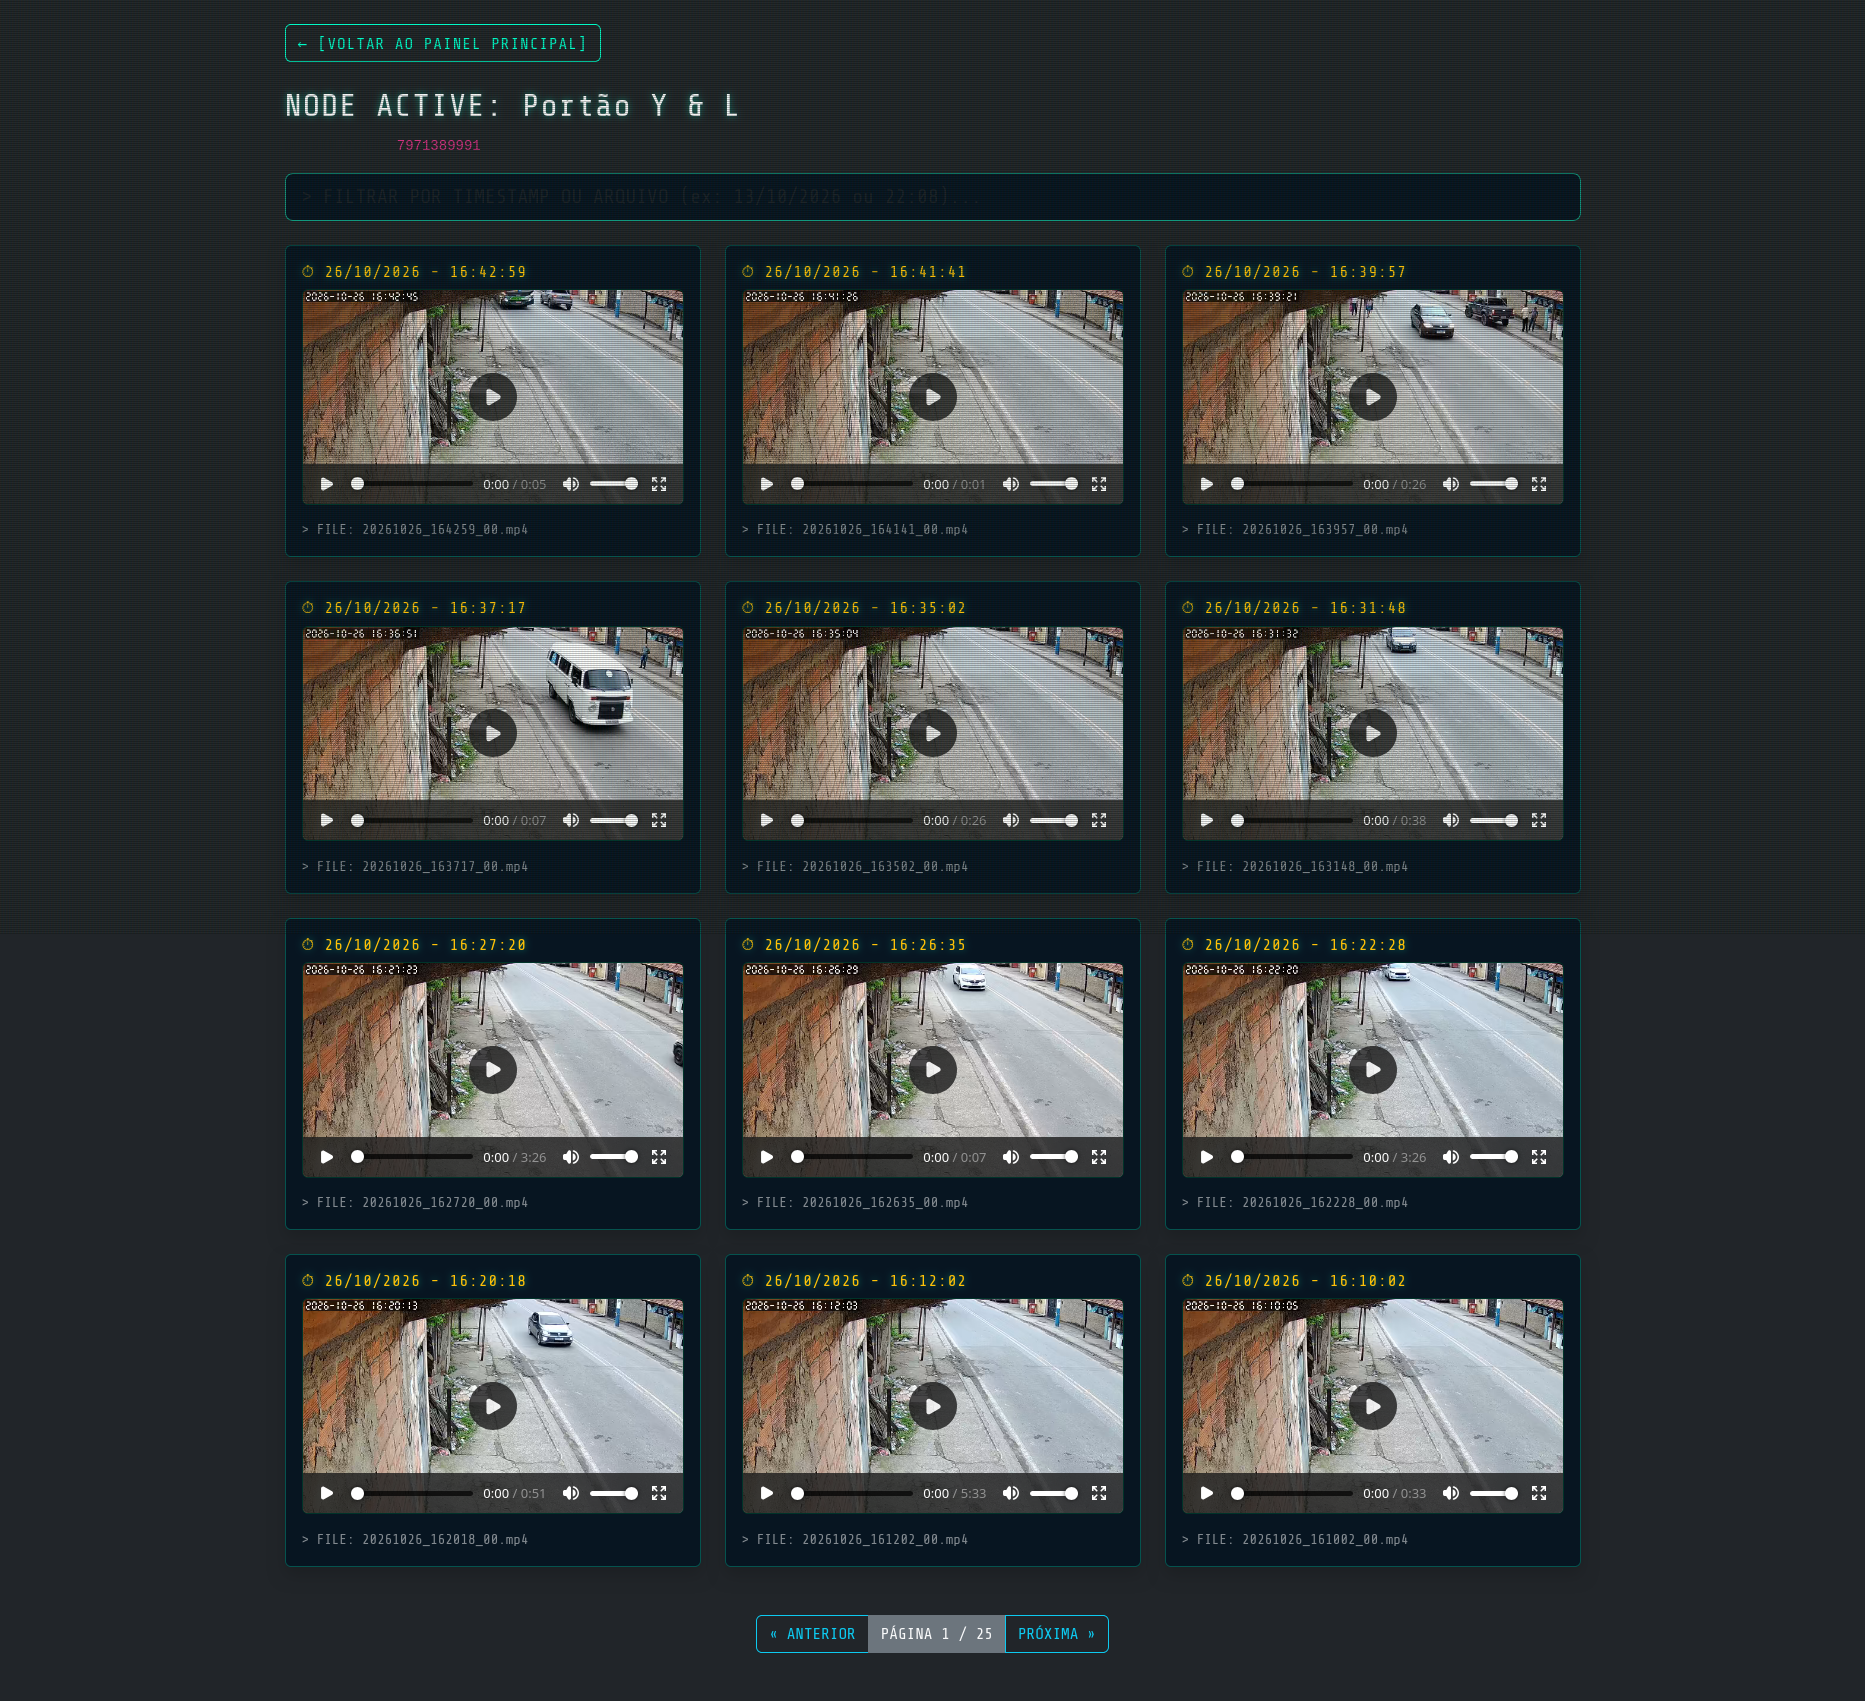
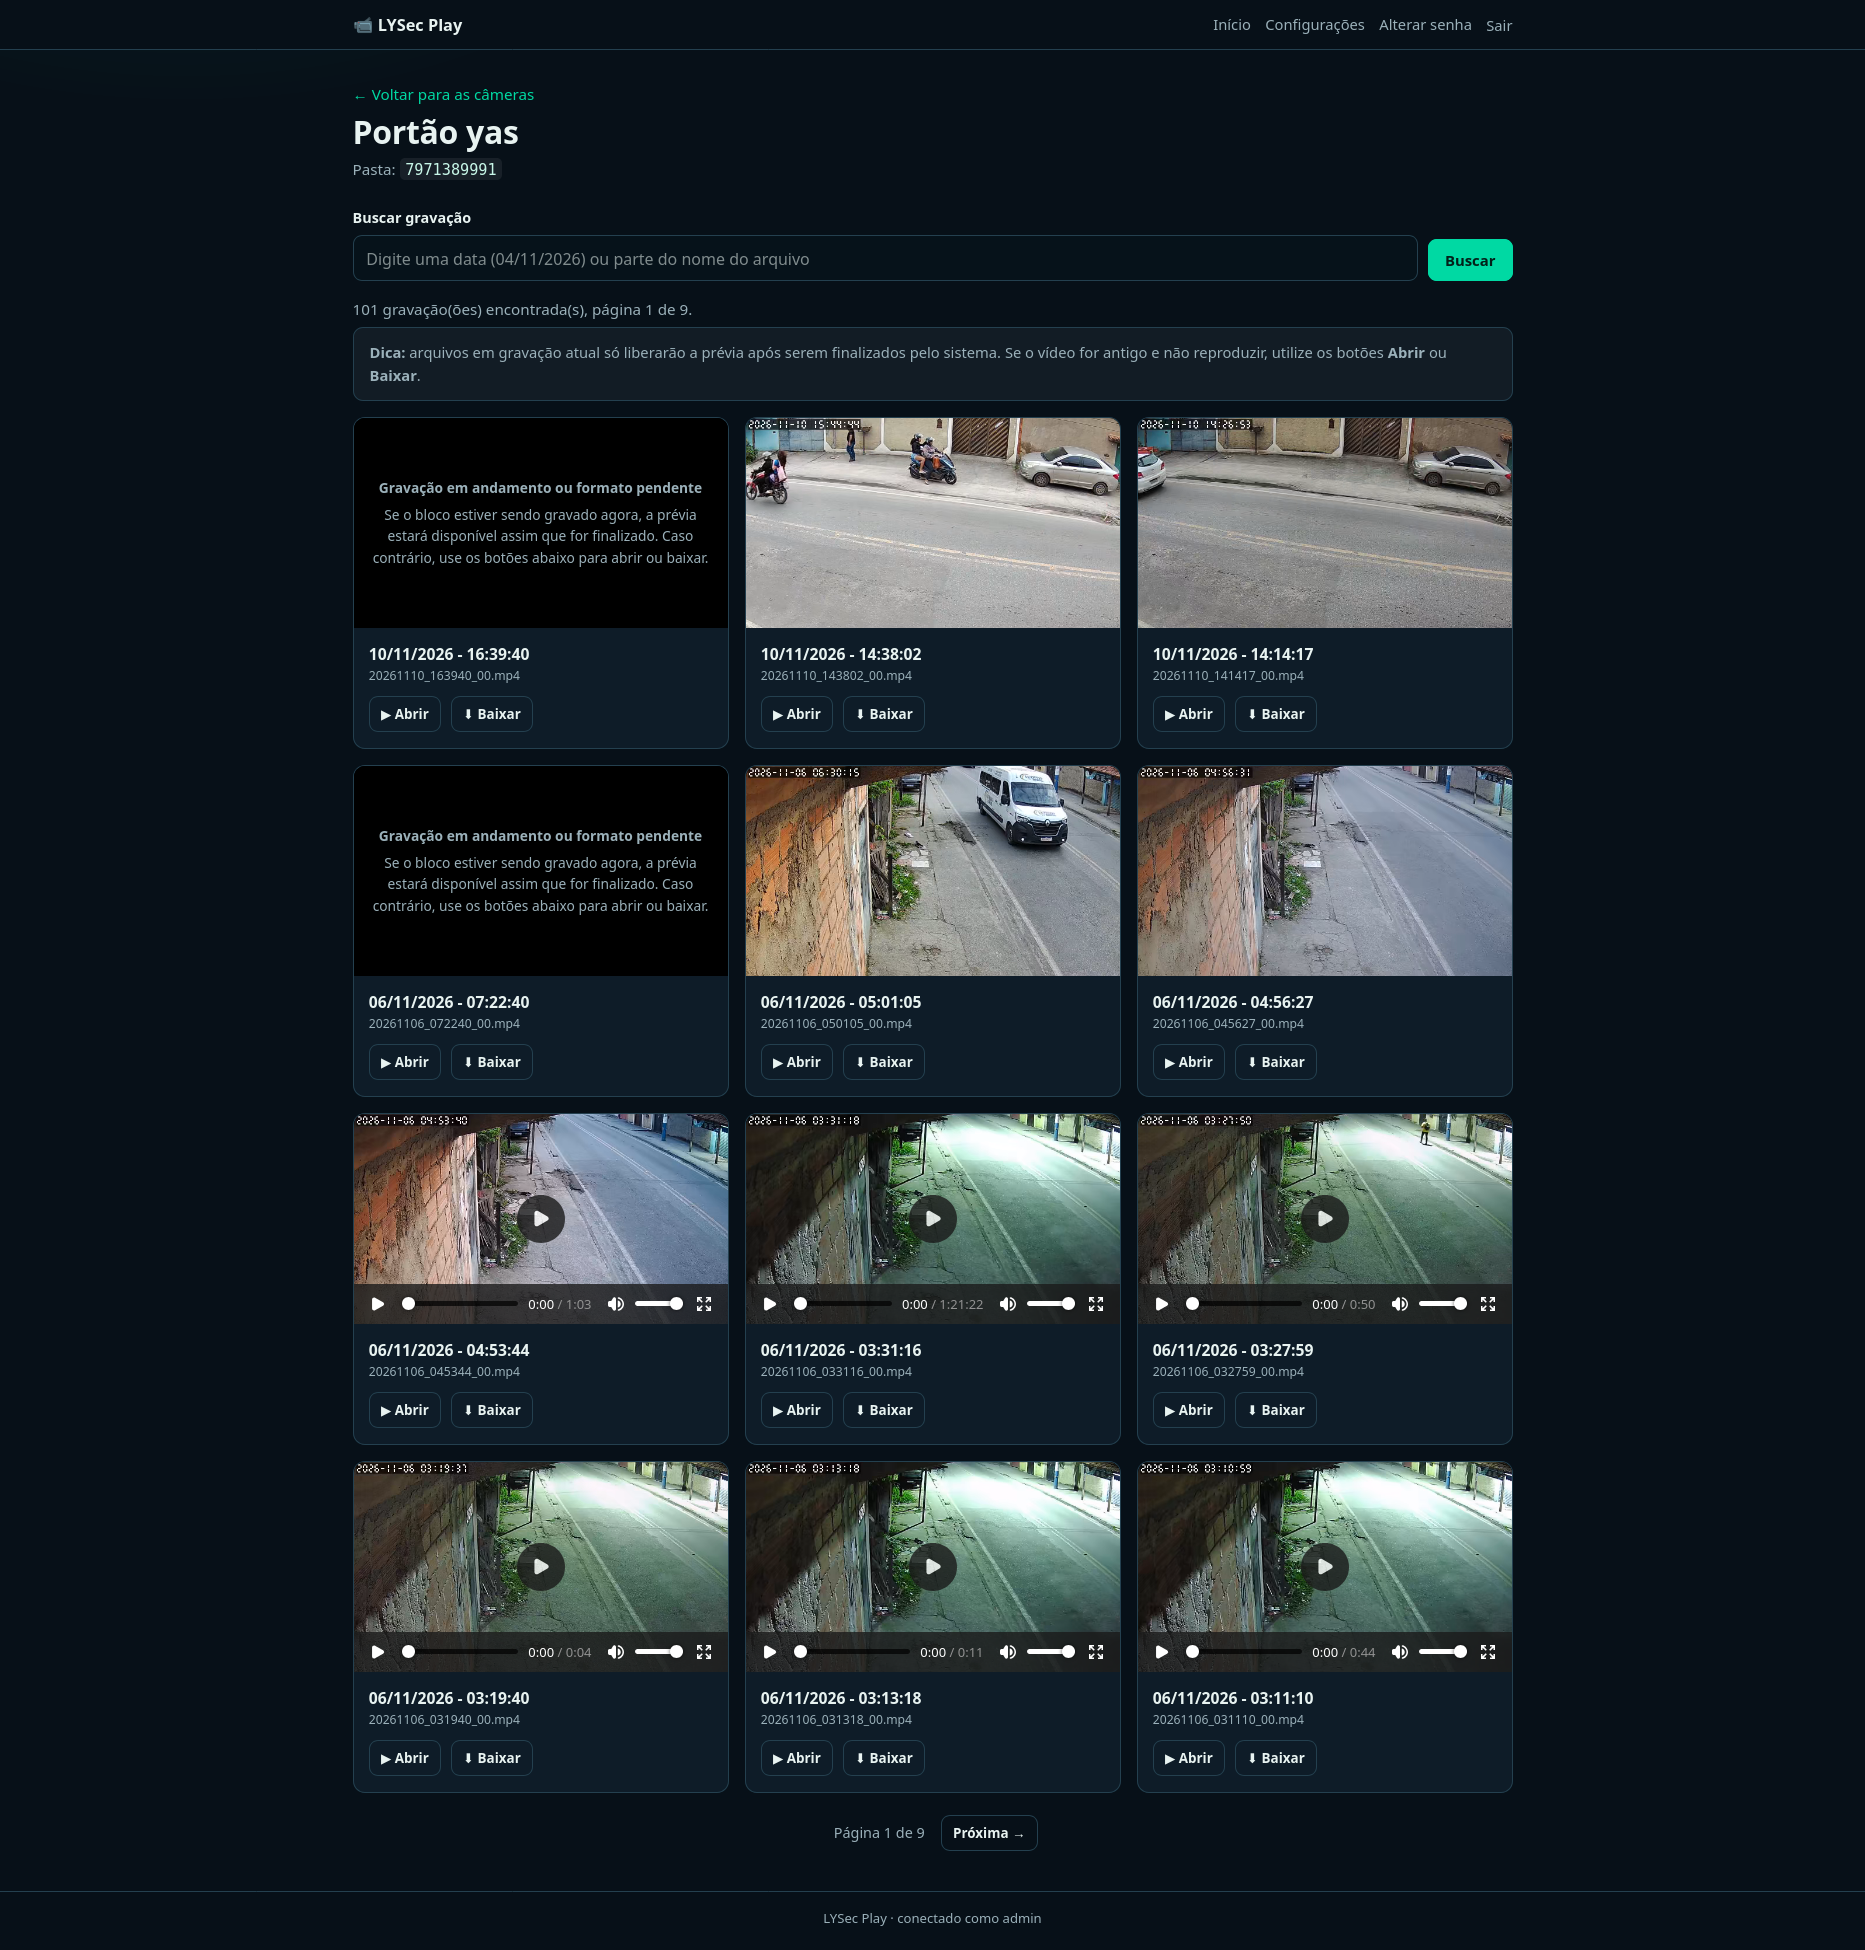
Atualização do README

diff --git a/README.md b/README.md
@@ -1,170 +1,70 @@
-# 📹 Central de Câmeras
+# 📹 LYSec Play
 
-Aplicativo pronto para **Windows e Linux** que organiza as gravações das
-câmeras Yoosee e permite assistir aos vídeos pelo navegador — no computador,
-no celular ou em outro computador da mesma rede.
+Central de câmeras Yoosee no navegador: organiza as gravações que o Yoosee
+Desktop salva no computador e transforma aqueles nomes incompreensíveis em
+câmeras, datas e horários legíveis.
 
-**Você não precisa instalar Python nem saber usar o terminal.**
+## Por que existe
 
----
+Eu tinha 4 câmeras Yoosee e nenhum cartão de memória. A solução foi instalar o
+Yoosee Desktop no Windows e gravar direto no HD da máquina — o armazenamento
+estava resolvido, mas achar as gravações virou um problema.
 
-## O que o programa faz
+O Yoosee salvava tudo em pastas e arquivos com IDs numéricos enormes, e esses
+nomes não podiam ser alterados sem risco de quebrar o funcionamento do programa.
+Na prática, encontrar o vídeo de um horário específico era garimpar no escuro.
 
-- Mostra as câmeras com nomes fáceis de entender, como “Portão” ou “Garagem”.
-- Converte os nomes complicados dos arquivos em data e hora legíveis.
+Foi daí que surgiu o LYSec Play: ele lê a estrutura original do Yoosee sem
+mexer em nada e traduz os IDs para nomes de câmera e para data/hora de verdade.
+O Yoosee continua funcionando normalmente; quem ganha uma interface simples é
+você.
+
+## O que ele faz
+
+- Dá nomes fáceis às câmeras (“Portão”, “Garagem”…) sem renomear as pastas
+  originais.
+- Converte os nomes dos arquivos em data e hora legíveis.
 - Permite assistir, abrir e baixar as gravações pelo navegador.
-- Busca gravações por data ou por nome do arquivo.
+- Busca gravações por data ou por parte do nome do arquivo.
 - Apaga automaticamente as gravações mais antigas que o prazo configurado.
-- Exige usuário e senha para proteger o acesso.
+- Exige login e pode ser acessado pelo celular ou por outro computador da mesma
+  rede.
+
+> O programa **não grava** as câmeras. Ele organiza e exibe as gravações que o
+> Yoosee Desktop já salva no computador.
 
 ![Tela inicial](assets/img_homepage.png)
 
----
+![Gravações de uma câmera](assets/img_feed.png)
 
-## Como usar no Windows
+## Como rodar
 
-1. Baixe o arquivo `CentralCameras-windows.zip` na página de **Releases** do
-   GitHub.
-2. Clique com o botão direito no `.zip` → **Propriedades** → marque
-   **Desbloquear** → **Aplicar**. Depois extraia o conteúdo em uma pasta comum,
-   como `Documentos` ou `Desktop`.
-3. Dê dois cliques em `CentralCameras.exe`.
-4. O navegador abre sozinho. Na primeira vez, aparecerá a tela
-   **“Criar acesso”**:
-   - escolha um usuário (pode deixar `admin`);
-   - crie uma senha com pelo menos 8 caracteres;
-   - guarde essa senha.
-5. Depois de criar o acesso, clique em **Configurações** e informe a pasta onde
-   as câmeras salvam os vídeos.
-6. Clique em **Salvar configurações**. Pronto.
+Baixe o pacote mais recente na página de
+[Releases](https://github.com/Leonardo-12953/central_camera_yoosee/releases).
+Não é preciso instalar Python nem usar o terminal.
 
-> Mantenha a janela preta aberta enquanto estiver usando o programa. Para
-> encerrar, feche essa janela ou pressione `Ctrl+C`.
-
-> Se o Windows mostrar o aviso “O Windows protegeu o computador”, clique em
-> **Mais informações** → **Executar assim mesmo**. Isso acontece porque o
-> programa não tem assinatura digital paga.
-
----
-
-## Como usar no Linux
-
-1. Extraia o `CentralCameras-linux.zip`.
-2. Abra o terminal na pasta e permita a execução:
-
-   ```bash
-   chmod +x CentralCameras
-   ./CentralCameras
-   ```
-
-3. O navegador abre automaticamente. O primeiro acesso é igual ao do Windows:
-   crie usuário e senha e configure a pasta das gravações.
-
----
-
-## Acessar pelo celular ou por outro computador
-
-O programa já fica disponível para a rede local. Na tela inicial aparece um
-quadro chamado **“Acesse pelo celular ou por outro computador”**, com um
-endereço parecido com:
-
-```text
-http://192.168.0.10:5000/
-```
-
-Digite esse endereço no celular ou no outro computador, desde que ele esteja na
-**mesma rede Wi-Fi ou no mesmo roteador**. O login e a senha serão pedidos
-normalmente.
-
-Se outro aparelho não conseguir abrir:
-
-- confirme que os dois estão na mesma rede;
-- permita o programa no firewall do Windows (rede privada) ou libere a porta
-  `5000`;
-- use o endereço que aparece dentro do programa, e não um endereço antigo.
-
----
-
-## Login e senha
-
-- O login é **obrigatório**.
-- A conta é criada no **primeiro acesso**, direto pela tela do navegador.
-- Para trocar a senha, entre no programa e clique em **Alterar senha**.
-- **Esqueceu a senha?** Abra o programa no mesmo computador onde ele está
-  rodando, clique em **Esqueci a senha** na tela de login e crie uma nova.
-  Por segurança, essa recuperação não funciona por outro aparelho da rede.
-
-> Usuários que já usavam a versão antiga com `APP_USERNAME` e
-> `APP_PASSWORD_HASH` no `.env` continuam conseguindo entrar. Depois de entrar,
-> troque a senha em **Alterar senha** para que ela passe a ficar na conta nova.
-
----
-
-## Onde ficam os arquivos
-
-Normalmente, na mesma pasta do programa:
-
-| Arquivo | Para que serve |
-|---|---|
-| `config.json` | Pasta das gravações, prazo de retenção e nomes das câmeras. |
-| `auth.json` | Usuário e senha (a senha fica protegida por hash). |
-| `.secret_key` | Chave interna de segurança da sessão. |
-| `central_cameras.log` | Registro de funcionamento e erros. |
-
-Se a pasta do programa não permitir gravação (por exemplo, `C:\Program
-Files`), o programa usa automaticamente uma pasta de dados do usuário
-(`%APPDATA%\CentralCameras` no Windows).
-
-**Backup:** copie `config.json` e `auth.json` para um lugar seguro.
-
----
-
-## Problemas comuns
-
-| Problema | O que fazer |
-|---|---|
-| O navegador não abriu | Abra manualmente `http://127.0.0.1:5000`. |
-| A porta 5000 está ocupada | O programa usa automaticamente a próxima porta livre e mostra o endereço na janela. |
-| A prévia do vídeo não aparece ou fica preta | Algumas câmeras gravam em H.265/HEVC, que nem todo navegador reproduz. Clique em **Abrir** ou **Baixar** na gravação; o arquivo abre no VLC ou no player do Windows. |
-| Os botões ou o visual não funcionam | Use a versão mais recente: os arquivos de estilo e script agora vão dentro do pacote. |
-| Outro aparelho não abre a página | Verifique a rede e libere a porta 5000 no firewall. |
-| Esqueci a senha | Na tela de login do próprio computador, clique em **Esqueci a senha**. |
-| O Windows bloqueou o programa | Propriedades do arquivo → **Desbloquear** → **Aplicar**. |
-| Antivírus reclamou | Adicione a pasta do programa às exceções. Executáveis feitos com PyInstaller às vezes são sinalizados sem motivo. |
-| Atualizei e o programa não abre | Substitua o executável **e** a pasta `_internal` juntos. Mantenha `config.json` e `auth.json`. |
-
----
-
-## Gerar o executável
-
-O cliente final recebe uma pasta com o executável e a pasta `_internal`. Não
-separe os dois.
-
-**Windows:**
-
-```bat
-build_windows.bat
-```
+**Windows:** extraia o `.zip` e dê dois cliques em `CentralCameras.exe`.
 
 **Linux:**
 
 ```bash
-chmod +x build_linux.sh
-./build_linux.sh
+chmod +x CentralCameras
+./CentralCameras
 ```
 
-Os pacotes são gerados em:
+O navegador abre sozinho. No primeiro acesso, crie o usuário e a senha e informe
+a pasta onde o Yoosee salva as gravações. Pronto.
 
-- `dist/CentralCameras-windows.zip`
-- `dist/CentralCameras-linux.zip`
+Passo a passo completo, com senha, arquivos e problemas comuns:
+[COMO_USAR.md](COMO_USAR.md).
 
-O PyInstaller não faz compilação cruzada: gere o `.exe` no Windows e o binário
-Linux no Linux. Também é possível usar **Actions → Gerar executáveis → Run
-workflow** no GitHub.
+## Acessar pelo celular ou outro computador
 
----
+O programa já fica disponível na rede local. Use o endereço mostrado na tela
+inicial — algo como `http://192.168.0.10:5000/` — em um aparelho conectado à
+mesma rede. Se não abrir, libere a porta `5000` no firewall.
 
-## Rodar a partir do código-fonte (opcional)
+## Rodar a partir do código
 
 ```bash
 python3 -m venv venv
@@ -173,52 +73,18 @@ pip install -r requirements.txt
 python app.py
 ```
 
-Abra `http://127.0.0.1:5000`. Na primeira execução, crie o acesso e configure a
-pasta das gravações pela própria tela.
+Acesse `http://127.0.0.1:5000`. O servidor usa **Waitress** por padrão; para
+desenvolvimento com recarga automática, use `FLASK_DEBUG=1`.
 
-O servidor usa **Waitress** por padrão. Para desenvolvimento com recarga
-automática, use `FLASK_DEBUG=1`.
-
-<details>
-<summary><strong>Opções avançadas (arquivo .env)</strong></summary>
-
-Copie `.env.example` para `.env` e ajuste apenas o que precisar:
-
-| Variável | Padrão | Descrição |
-|---|---|---|
-| `HOST` | `0.0.0.0` | `0.0.0.0` libera o acesso pela rede local. Use `127.0.0.1` para somente este computador. |
-| `PORT` | `5000` | Porta inicial. Se estiver ocupada, a próxima livre é usada. |
-| `OPEN_BROWSER` | `1` no executável | Abre o navegador automaticamente. |
-| `AUTH_SESSION_LIFETIME_MINUTES` | `720` | Tempo que o login fica válido. |
-| `LOGIN_MAX_ATTEMPTS` | `5` | Tentativas de login por IP antes do bloqueio temporário. |
-| `SERVER_THREADS` | `8` | Threads do servidor. |
-| `CLEANUP_INTERVAL_SECONDS` | `3600` | Intervalo da limpeza automática. |
-| `LOG_LEVEL` | `INFO` | Nível do log (`DEBUG`, `INFO`, `WARNING`, `ERROR`). |
-
-Para recuperar a senha pelo terminal (alternativa à tela):
+Para gerar os executáveis:
 
 ```bat
-CentralCameras.exe set-password
+build_windows.bat
 ```
 
 ```bash
-./CentralCameras set-password
+./build_linux.sh
 ```
 
-Para simular a limpeza de gravações sem apagar nada:
-
-```bat
-CentralCameras.exe purge --dry-run
-```
-
-</details>
-
----
-
-## Segurança
-
-- O login é obrigatório e a senha é guardada com hash, nunca em texto puro.
-- A sessão é assinada, tem proteção CSRF e limite de tentativas por IP.
-- A recuperação de senha só funciona no próprio computador.
-- Para acesso pela internet (fora da rede local), use HTTPS por meio de um
-  proxy reverso e mantenha uma senha forte.
+Os pacotes saem em `dist/`. Opções avançadas de rede, sessão e limpeza estão
+documentadas no [.env.example](.env.example).
